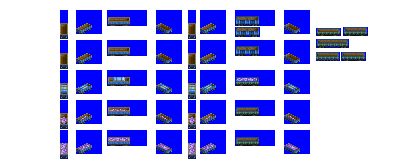
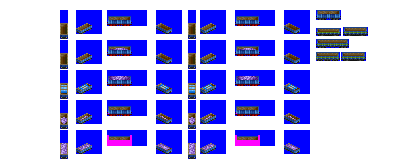
Change: WIP on gen 2B open car sprites

diff --git a/src/vehicles/open_cars.py b/src/vehicles/open_cars.py
@@ -34,7 +34,8 @@ def main():
     consist = OpenCarConsist(roster='pony',
                              base_numeric_id=830,
                              gen=2,
-                             subtype='B')
+                             subtype='B',
+                             chassis='4_axle_gapped_24px')
 
     consist.add_unit(type=FreightCar,
                      cargo_length=3,
